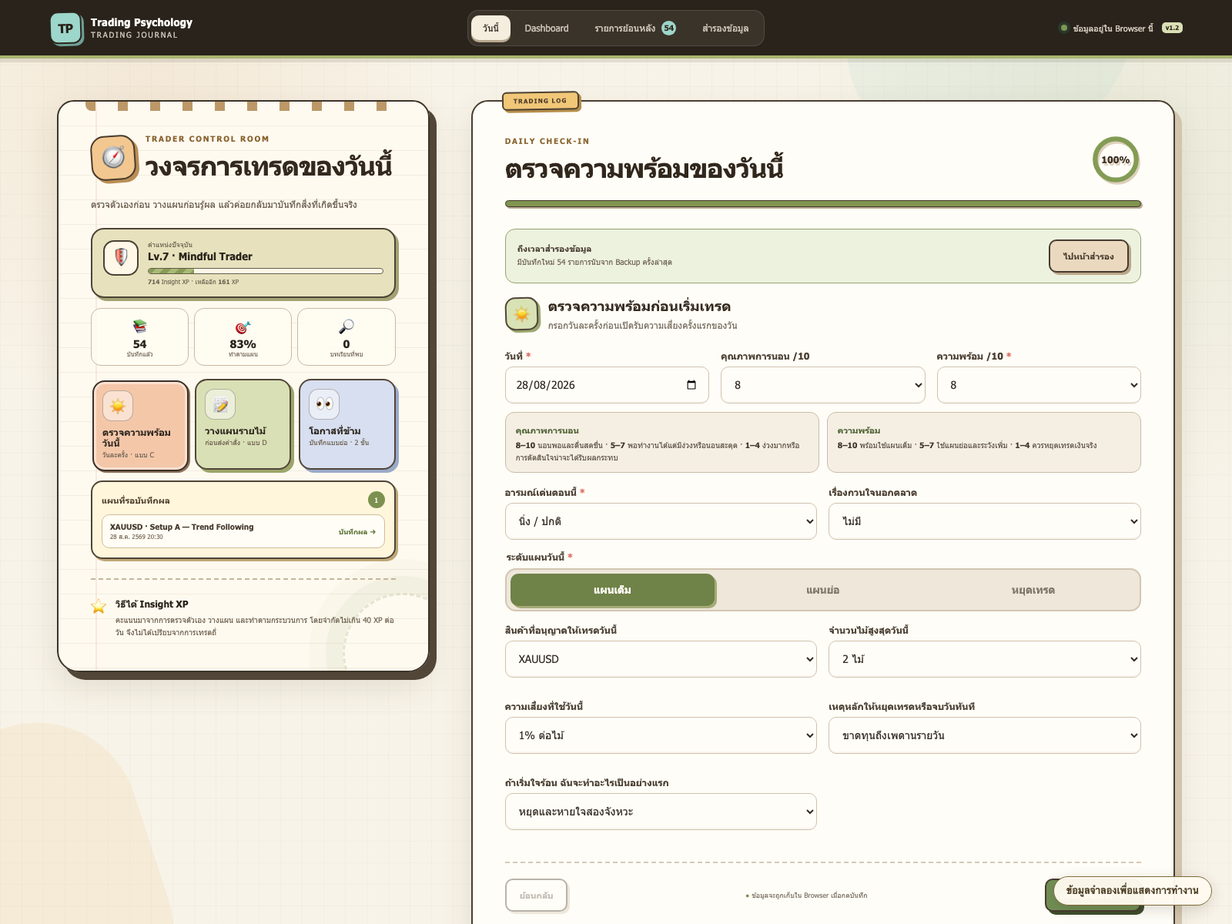
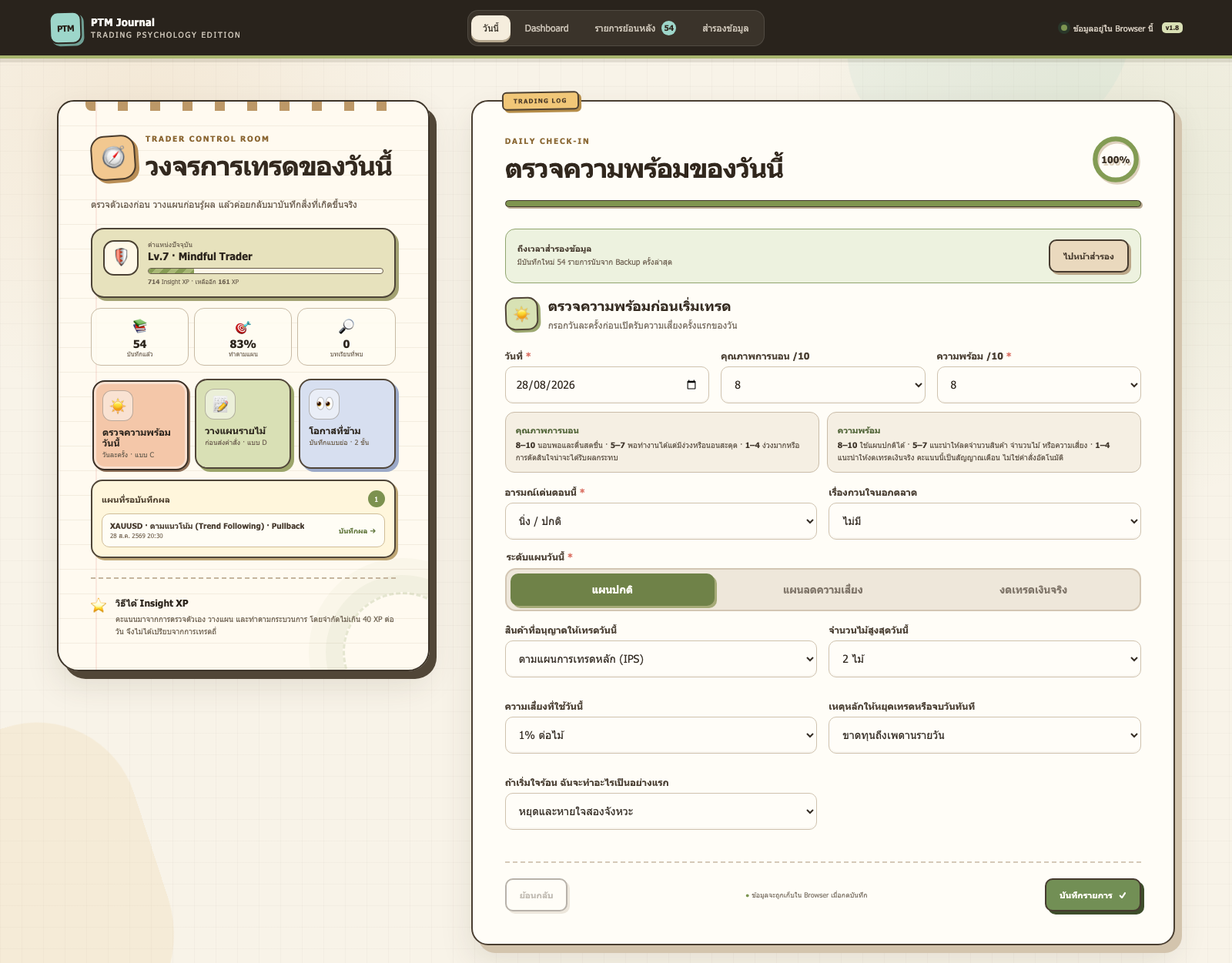
Add files via upload

Changed region(s): [[0.375, 0.0925, 0.9688, 1.0], [0.0312, 0.0925, 0.375, 0.74], [0.0, 0.0, 1.0, 0.0617]]

diff --git a/index.html b/index.html
@@ -12,7 +12,7 @@
   <meta property="og:image:height" content="630">
   <meta name="twitter:card" content="summary_large_image">
   <title>จิตวิทยาการเทรด ฉบับลงมือทำ</title>
-  <link rel="stylesheet" href="styles.css">
+  <link rel="stylesheet" href="styles.css?v=20260902-3">
 </head>
 <body>
   <header class="site-header">
@@ -91,7 +91,7 @@
           <tbody>
             <tr><th scope="row">eBook จิตวิทยาการเทรด ฉบับลงมือทำ</th><td><span class="table-check">✓</span></td><td class="guided-column"><span class="table-check">✓</span></td><td>ภายใน 3 ก.ย. 2569</td></tr>
             <tr><th scope="row">Trading Psychology Workbook</th><td><span class="table-check">✓</span></td><td class="guided-column"><span class="table-check">✓</span></td><td>ภายใน 3 ก.ย. 2569</td></tr>
-            <tr><th scope="row">Trade Journal Web App + Dashboard</th><td><span class="table-check">✓</span></td><td class="guided-column"><span class="table-check">✓</span></td><td>ภายใน 3 ก.ย. 2569</td></tr>
+            <tr><th scope="row">PTM Journal — Trading Psychology Edition</th><td><span class="table-check">✓</span></td><td class="guided-column"><span class="table-check">✓</span></td><td>ภายใน 3 ก.ย. 2569</td></tr>
             <tr><th scope="row">MyGPT “โค้ชใจนิ่ง”</th><td><span class="table-dash">—</span></td><td class="guided-column"><span class="table-check">✓</span></td><td>ภายใน 30 ก.ย. 2569</td></tr>
             <tr><th scope="row">Audio Book เนื้อหาหลักครบทุกบท</th><td><span class="table-dash">—</span></td><td class="guided-column"><span class="table-check">✓</span></td><td>ภายใน 30 ก.ย. 2569</td></tr>
             <tr><th scope="row">โปรแกรม 30 วันจิตวิทยาการเทรด</th><td><span class="table-dash">—</span></td><td class="guided-column"><span class="table-check">✓</span></td><td>ลงคลิป 1–30 ต.ค. 2569</td></tr>
@@ -142,12 +142,13 @@
           <span class="card-number">03</span>
           <div class="card-icon">◎</div>
           <p class="card-kicker">PRACTICE</p>
-          <h3>Web App + Dashboard</h3>
-          <p>บันทึกแต่ละไม้ ตรวจความพร้อม และมองหารูปแบบที่เกิดซ้ำจากข้อมูลจริง เปิดบน Chrome หรือ Edge โดยไม่ต้องติดตั้งโปรแกรม</p>
+          <h3>PTM Journal</h3>
+          <p>ช่วยตรวจความพร้อม วางแผนก่อนเข้า บันทึกผลหลังจบไม้ และมองเห็นสิ่งที่เกิดซ้ำจากข้อมูลการเทรดของตัวเอง เปิดบน Chrome หรือ Edge โดยไม่ต้องติดตั้งโปรแกรม</p>
           <ul>
-            <li>Daily Check-in ก่อนเทรด</li>
-            <li>Process Score แยกจากกำไร–ขาดทุน</li>
-            <li>Dashboard สรุปวินัย อารมณ์ และ Setup</li>
+            <li>Daily Check-in, แผนก่อนเข้า และทบทวนหลังจบไม้</li>
+            <li>Dashboard แยก Performance, Process × Outcome และ Behavior</li>
+            <li>สลับดูผลแบบ R หรือกำไร–ขาดทุน พร้อม Session และ Setup</li>
+            <li>ส่งออกข้อมูลไปวิเคราะห์ต่อใน Excel หรือ Google Sheets และสำรองข้อมูลเก็บไว้ได้</li>
           </ul>
         </article>
       </div>
@@ -155,75 +156,90 @@
 
     <section id="preview" class="preview-section section-shell">
       <div class="section-heading">
-        <div><p class="section-tag">PREVIEW</p><h2>ไม่ได้มีเพียงหนังสือให้อ่าน</h2></div>
-        <p>ทุกชิ้นถูกออกแบบให้ใช้ต่อกัน ตั้งแต่การรวบรวมกฎก่อนเทรด ไปจนถึงการดูพฤติกรรมที่เกิดซ้ำใน Dashboard</p>
+        <div><p class="section-tag">PREVIEW</p><h2>ดูตัวอย่างเครื่องมือในชุด</h2></div>
+        <p>ภาพย่อแสดงหน้าจริงแบบเต็มหน้า กดที่ภาพเพื่อขยายและอ่านรายละเอียดได้</p>
       </div>
 
-      <div class="preview-block">
-        <div class="preview-copy">
-          <span class="preview-index">A</span>
-          <p class="card-kicker">WORKBOOK</p>
-          <h3>เห็นกระบวนการทั้งหมดในหน้าเดียว</h3>
-          <p>ไม่ต้องกรอกทุกหน้าทุกวัน Workbook แยกให้ชัดว่าอะไรทำครั้งแรก อะไรทำทุกวัน และอะไรใช้เมื่อถึงรอบทบทวน</p>
-          <button class="text-button" type="button" data-lightbox="assets/workbook-overview.png" data-caption="Workbook — ภาพรวมกระบวนการ">เปิดดูภาพเต็ม ↗</button>
+      <section class="product-preview workbook-preview">
+        <div class="product-preview-heading">
+          <div><p class="card-kicker">TRADING PSYCHOLOGY WORKBOOK</p><h3>จากสิ่งที่อ่าน สู่กฎและกระบวนการของตัวเอง</h3></div>
+          <p>Workbook ขนาด A4 แบ่งชัดว่าอะไรใช้ครั้งแรก อะไรใช้ทุกวัน และอะไรใช้เมื่อถึงรอบทบทวน สามารถพิมพ์หรือเขียนบน Tablet ได้</p>
         </div>
-        <button class="image-frame workbook-frame" type="button" data-lightbox="assets/workbook-overview.png" data-caption="Workbook — ภาพรวมกระบวนการ">
-          <img src="assets/workbook-overview.png" alt="ภาพรวมการใช้ Trading Psychology Workbook" loading="lazy">
-        </button>
-      </div>
+        <div class="document-preview-grid">
+          <figure class="preview-tile">
+            <button class="preview-media document-page-frame" type="button" data-lightbox="assets/workbook-cover-full.png" data-caption="Trading Psychology Workbook — หน้าปก">
+              <img src="assets/workbook-cover-full.png" alt="หน้าปก Trading Psychology Workbook" loading="lazy">
+            </button>
+            <figcaption>หน้าปก Workbook</figcaption>
+          </figure>
+          <figure class="preview-tile">
+            <button class="preview-media document-page-frame" type="button" data-lightbox="assets/workbook-how-to-full.png" data-caption="Workbook — วิธีเลือกใช้แต่ละส่วน">
+              <img src="assets/workbook-how-to-full.png" alt="หน้าแนะนำวิธีใช้ Trading Psychology Workbook" loading="lazy">
+            </button>
+            <figcaption>หน้าแนะนำวิธีเลือกใช้ Workbook</figcaption>
+          </figure>
+        </div>
+      </section>
 
-      <div class="preview-block reverse">
-        <div class="preview-copy">
-          <span class="preview-index">B</span>
-          <p class="card-kicker">CONTINUOUS EXAMPLE</p>
-          <h3>ตัวอย่างที่เดินต่อจากก่อนเทรดถึงวันทบทวน</h3>
-          <p>กรณีของเมย์แสดงให้เห็นว่าข้อมูลชุดเดียวถูกนำไปใช้ต่ออย่างไร ตั้งแต่ระบุพฤติกรรม รวบรวมกฎ แยกผลออกจากกระบวนการ จนเลือกปรับเพียงหนึ่งเรื่อง</p>
-          <button class="text-button" type="button" data-lightbox="assets/workbook-case-study.png" data-caption="Workbook — ตัวอย่างต่อเนื่องของเมย์">เปิดดูภาพเต็ม ↗</button>
+      <section class="product-preview journal-preview-section">
+        <div class="product-preview-heading">
+          <div><p class="card-kicker">PTM JOURNAL</p><h3>ตั้งแต่ตรวจตัวเองก่อนเทรด จนถึงทบทวนภาพรวม</h3></div>
+          <p>บันทึกเป็นขั้นตอนด้วยภาษาที่เข้าใจง่าย เก็บคะแนนจากการทำตามกระบวนการ และดูข้อมูลย้อนหลังเพื่อค้นหาสิ่งที่ควรพัฒนาต่อ</p>
         </div>
-        <button class="image-frame case-frame" type="button" data-lightbox="assets/workbook-case-study.png" data-caption="Workbook — ตัวอย่างต่อเนื่องของเมย์">
-          <img src="assets/workbook-case-study.png" alt="ตัวอย่างต่อเนื่องของเมย์ใน Workbook" loading="lazy">
-        </button>
-      </div>
 
-      <div class="app-showcase">
-        <div class="app-showcase-copy">
-          <span class="preview-index">C</span>
-          <p class="card-kicker">TRADE JOURNAL WEB APP</p>
-          <h3>บันทึกให้เป็นเรื่องที่อยากกลับมาทำต่อ</h3>
-          <p>ตรวจความพร้อม วางแผนรายไม้ บันทึกผลและอารมณ์ เก็บคะแนนจากการทำตามกระบวนการ และสำรองข้อมูลออกจาก Browser ได้</p>
-          <div class="mini-features">
-            <span>Daily Check-in</span><span>Insight XP</span><span>Skipped Setup</span><span>Backup</span>
-          </div>
+        <div class="app-preview-grid">
+          <figure class="preview-tile">
+            <button class="preview-media app-screen-frame" type="button" data-lightbox="assets/daily-check-in-demo.png" data-caption="PTM Journal — ตรวจความพร้อมก่อนเทรด (ข้อมูลจำลอง)">
+              <img src="assets/daily-check-in-demo.png" alt="หน้าตรวจความพร้อมก่อนเทรด" loading="lazy">
+            </button>
+            <figcaption>ตรวจความพร้อมก่อนเทรด</figcaption>
+          </figure>
+          <figure class="preview-tile">
+            <button class="preview-media app-screen-frame" type="button" data-lightbox="assets/trade-plan-log-demo.png" data-caption="PTM Journal — วางแผนก่อนเข้าแต่ละไม้ (ข้อมูลจำลอง)">
+              <img src="assets/trade-plan-log-demo.png" alt="กรอบ Trading Log สำหรับวางแผนก่อนเข้าแต่ละไม้" loading="lazy">
+            </button>
+            <figcaption>วางแผนก่อนเข้าแต่ละไม้</figcaption>
+          </figure>
+          <figure class="preview-tile">
+            <button class="preview-media app-screen-frame" type="button" data-lightbox="assets/trade-result-log-demo.png" data-caption="PTM Journal — บันทึกผลหลังจบไม้ (ข้อมูลจำลอง)">
+              <img src="assets/trade-result-log-demo.png" alt="กรอบ Trading Log สำหรับบันทึกผลหลังจบไม้" loading="lazy">
+            </button>
+            <figcaption>บันทึกผลหลังจบไม้</figcaption>
+          </figure>
+          <figure class="preview-tile">
+            <button class="preview-media app-screen-frame" type="button" data-lightbox="assets/history-list-demo.png" data-caption="PTM Journal — ดูรายการย้อนหลังอย่างเป็นระบบ (ข้อมูลจำลอง)">
+              <img src="assets/history-list-demo.png" alt="หน้ารายการย้อนหลังของ PTM Journal" loading="lazy">
+            </button>
+            <figcaption>ดูรายการย้อนหลังอย่างเป็นระบบ</figcaption>
+          </figure>
         </div>
-        <button class="screen-frame" type="button" data-lightbox="assets/daily-check-in-demo.png" data-caption="Web App — ตรวจความพร้อมก่อนเทรด (ข้อมูลจำลอง)">
-          <img src="assets/daily-check-in-demo.png" alt="หน้าตรวจความพร้อมก่อนเทรดใน Web App" loading="lazy">
-        </button>
-      </div>
 
-      <div class="preview-block reverse journal-preview">
-        <div class="preview-copy">
-          <span class="preview-index">D</span>
-          <p class="card-kicker">TRADE JOURNAL</p>
-          <h3>บันทึกสิ่งที่ทำจริง ไม่ใช่ดูแค่กำไรหรือขาดทุน</h3>
-          <p>หลังจบแต่ละไม้ Web App ช่วยบันทึกการทำตามแผน อารมณ์ ข้อผิดพลาด และบทเรียน ทำให้เห็นว่าไม้ที่กำไรอาจผิดแผน และไม้ที่ขาดทุนอาจเป็นไม้ที่ทำได้ดี</p>
-          <button class="text-button" type="button" data-lightbox="assets/journal-process-demo.png" data-caption="Web App — บันทึกกระบวนการและอารมณ์หลังจบแต่ละไม้ (ข้อมูลจำลอง)">เปิดดูภาพเต็ม ↗</button>
+        <div class="dashboard-preview-heading">
+          <div><p class="card-kicker">DASHBOARD</p><h3>ดูผลลัพธ์ควบคู่กับการทำตามแผน</h3></div>
+          <p>ดูภาพรวม ผลตามช่วงเวลาและรูปแบบที่ใช้ เปรียบเทียบผลลัพธ์กับการทำตามแผน และมองหาอารมณ์หรือข้อผิดพลาดที่เกิดซ้ำ</p>
         </div>
-        <button class="screen-frame" type="button" data-lightbox="assets/journal-process-demo.png" data-caption="Web App — บันทึกกระบวนการและอารมณ์หลังจบแต่ละไม้ (ข้อมูลจำลอง)">
-          <img src="assets/journal-process-demo.png" alt="หน้าบันทึกกระบวนการและอารมณ์หลังจบแต่ละไม้" loading="lazy">
-        </button>
-      </div>
-
-      <div class="dashboard-showcase">
-        <div class="dashboard-copy">
-          <p class="card-kicker">PSYCHOLOGY ANALYTICS</p>
-          <h3>ดูผลลัพธ์ควบคู่กับการทำตามแผน</h3>
-          <p>Dashboard ไม่ได้ดูเพียงกำไร–ขาดทุน แต่ช่วยแยกไม้ที่ทำตามแผนออกจากไม้ที่ผิดแผน พร้อมดูแนวโน้มรายสัปดาห์ อารมณ์ ข้อผิดพลาด และเหตุผลที่ข้าม Setup</p>
-          <p class="demo-note">ภาพนี้ใช้ข้อมูลจำลองเพื่อแสดงการทำงาน ไม่ใช่ผลการเทรดจริงหรือการรับประกันผลลัพธ์</p>
+        <div class="dashboard-preview-grid">
+          <figure class="preview-tile">
+            <button class="preview-media dashboard-screen-frame" type="button" data-lightbox="assets/dashboard-summary-demo.png" data-caption="Dashboard — ภาพรวมผลการเทรด (ข้อมูลจำลอง)">
+              <img src="assets/dashboard-summary-demo.png" alt="Dashboard ภาพรวมผลการเทรด" loading="lazy">
+            </button>
+            <figcaption>ภาพรวมผลการเทรด</figcaption>
+          </figure>
+          <figure class="preview-tile">
+            <button class="preview-media dashboard-screen-frame" type="button" data-lightbox="assets/dashboard-performance-demo.png" data-caption="Dashboard — ผลลัพธ์และบริบทการเทรด (ข้อมูลจำลอง)">
+              <img src="assets/dashboard-performance-demo.png" alt="Dashboard ผลลัพธ์และบริบทการเทรด" loading="lazy">
+            </button>
+            <figcaption>ผลลัพธ์ ช่วงเวลา และรูปแบบการเทรด</figcaption>
+          </figure>
+          <figure class="preview-tile wide-preview-tile">
+            <button class="preview-media dashboard-detail-frame" type="button" data-lightbox="assets/dashboard-process-behavior-demo.png" data-caption="Dashboard — การทำตามแผนและสิ่งที่เกิดซ้ำ (ข้อมูลจำลอง)">
+              <img src="assets/dashboard-process-behavior-demo.png" alt="Dashboard การทำตามแผนและสิ่งที่เกิดซ้ำ" loading="lazy">
+            </button>
+            <figcaption>การทำตามแผน อารมณ์ และสิ่งที่เกิดซ้ำ</figcaption>
+          </figure>
         </div>
-        <button class="screen-frame wide" type="button" data-lightbox="assets/dashboard-demo.png" data-caption="Dashboard — ข้อมูลจำลองเพื่อแสดงการทำงาน">
-          <img src="assets/dashboard-demo.png" alt="Dashboard สรุปการเทรดจากข้อมูลจำลอง" loading="lazy">
-        </button>
-      </div>
+        <p class="demo-note standalone-demo-note">ภาพ PTM Journal ใช้ข้อมูลจำลองเพื่อแสดงการทำงาน ไม่ใช่ผลการเทรดจริงหรือการรับประกันผลลัพธ์</p>
+      </section>
     </section>
 
     <section class="fit-section section-shell">
@@ -261,7 +277,7 @@
           <ul class="check-list">
             <li>eBook ฉบับเต็ม 163 หน้า ขนาด A5</li>
             <li>Workbook ขนาด A4 สำหรับพิมพ์หรือเขียนบน Tablet</li>
-            <li>Web App Trade Journal พร้อม Dashboard</li>
+            <li>PTM Journal — Trading Psychology Edition พร้อม Dashboard</li>
             <li>คู่มือใช้งาน Web App ฉบับย่อ</li>
           </ul>
           <p class="package-delivery">ส่งครบทั้ง 3 ผลิตภัณฑ์ภายใน 3 ก.ย. 2569</p>
@@ -289,6 +305,7 @@
       <div class="order-shared-note">
         <p>ทุกปุ่มสมัครจะพาไปยังหน้าสรุปยอดโอนและขั้นตอนการสมัคร</p>
         <p>ใช้แบบฟอร์มเดียวสำหรับทั้งสองแพ็กเกจ หลังกรอกแบบฟอร์มแล้วให้ส่งสลิปพร้อมแจ้ง Email ทาง LINE Official Account โดยไม่ต้องกรอกข้อมูลชุดเดิมซ้ำอีกครั้ง</p>
+        <p><strong>สิทธิ์ใช้งานเป็นรายบุคคล:</strong> ผู้ซื้อใช้ไฟล์บนอุปกรณ์ส่วนตัวได้ แต่ไม่รวมสิทธิ์คัดลอก แจกจ่าย หรือส่งต่อให้บุคคลอื่น สิทธิ์รับอัปเดตและการช่วยเหลือจะผูกกับ Email ที่ลงทะเบียน</p>
       </div>
     </section>
 
@@ -326,6 +343,7 @@
       <p class="section-tag">คำถามที่อาจสงสัย</p>
       <h2>FAQ</h2>
       <details><summary>ต้องติดตั้ง Web App หรือไม่?</summary><p>ไม่ต้องติดตั้งโปรแกรม เปิดไฟล์ด้วย Chrome หรือ Edge ได้โดยตรง ข้อมูลเก็บอยู่ใน Browser ที่ใช้เปิด จึงควรดาวน์โหลด Backup เป็นประจำ</p></details>
+      <details><summary>PTM Journal ใช้ได้กี่เครื่อง และส่งไฟล์ให้ผู้อื่นได้หรือไม่?</summary><p>ผู้ซื้อสามารถเก็บและใช้งานบนอุปกรณ์ส่วนตัวของตัวเองได้ แต่ข้อมูลในแต่ละ Browser จะไม่เชื่อมกันโดยอัตโนมัติ สิทธิ์ใช้งานเป็นสิทธิ์รายบุคคล ไม่รวมการคัดลอก แจกจ่าย หรือส่งต่อไฟล์ให้ผู้อื่น โดยสิทธิ์รับอัปเดตและการช่วยเหลือจะอ้างอิงจาก Email ที่ลงทะเบียน</p></details>
       <details><summary>ใช้ร่วมกับไฟล์จาก AI Workflow / PTM Lite ได้หรือไม่?</summary><p>แนวคิดและคำศัพท์ถูกปรับให้สอดคล้องกัน แต่ Web App ชุดนี้ทำหน้าที่เป็น Trade Journal ด้านกระบวนการและจิตวิทยาโดยเฉพาะ จึงไม่จำเป็นต้องคัดลอกข้อมูลซ้ำลง Workbook</p></details>
       <details><summary>Core Set กับ Guided Set ต่างกันอย่างไร?</summary><p>Core Set มี eBook, Workbook และ Web App ครบสำหรับฝึกด้วยตัวเอง ส่วน Guided Set ได้รับ Core Set ทั้งหมด พร้อม MyGPT, Audio Book และโปรแกรมฝึก 30 วันในกลุ่ม Facebook แบบปิด</p></details>
       <details><summary>Guided Set ได้รับทุกอย่างพร้อมกันหรือไม่?</summary><p>Core Set จะส่งภายในวันที่ 3 กันยายน 2569 ส่วน MyGPT, Audio Book และสิทธิ์เข้ากลุ่มจะส่งภายในวันที่ 30 กันยายน จากนั้นเริ่มลงคลิปวันละหนึ่งคลิประหว่างวันที่ 1–30 ตุลาคม</p></details>

diff --git a/styles.css b/styles.css
@@ -324,6 +324,30 @@ h3 { margin-bottom: 12px; color: var(--navy); font-size: clamp(24px, 2.4vw, 34px
 .bundle-card li::before { content: "◆"; position: absolute; left: 0; top: 2px; color: var(--olive); font-size: 11px; }
 
 .preview-section { padding-bottom: 70px; }
+.product-preview { margin-top: 48px; padding: clamp(26px, 4vw, 46px); border: 2px solid var(--ink); border-radius: 28px; box-shadow: 9px 11px 0 var(--shadow); }
+.workbook-preview { background: #fff8ec; }
+.journal-preview-section { margin-top: 72px; background: #e6edf7; box-shadow: 9px 11px 0 #99a7b8; }
+.product-preview-heading,
+.dashboard-preview-heading { display: grid; grid-template-columns: minmax(0, 1fr) minmax(280px, .8fr); gap: 32px; align-items: end; margin-bottom: 30px; }
+.product-preview-heading h3,
+.dashboard-preview-heading h3 { margin-bottom: 0; }
+.product-preview-heading > p,
+.dashboard-preview-heading > p { margin: 0; color: var(--ink-soft); }
+.document-preview-grid { display: grid; grid-template-columns: repeat(2, minmax(0, 390px)); justify-content: center; gap: clamp(22px, 4vw, 54px); }
+.app-preview-grid { display: grid; grid-template-columns: repeat(2, minmax(0, 1fr)); gap: 22px 18px; }
+.dashboard-preview-heading { margin-top: 58px; padding-top: 34px; border-top: 1px solid rgba(48,40,31,.18); }
+.dashboard-preview-grid { display: grid; grid-template-columns: repeat(2, minmax(0, 1fr)); gap: 18px; }
+.wide-preview-tile { grid-column: 1 / -1; }
+.preview-tile { min-width: 0; margin: 0; text-align: center; }
+.preview-tile figcaption { margin-top: 13px; color: var(--navy); font-size: 14px; font-weight: 700; }
+.preview-media { position: relative; display: block; width: 100%; padding: 0; overflow: hidden; background: #ece5d8; border: 2px solid var(--ink); border-radius: 18px; box-shadow: 6px 7px 0 rgba(48,40,31,.17); cursor: zoom-in; }
+.preview-media::after { content: "เปิดภาพเต็ม ↗"; position: absolute; right: 10px; bottom: 10px; padding: 6px 10px; color: #fff; background: rgba(43,36,28,.88); border-radius: 999px; font-size: 10px; font-weight: 700; }
+.preview-media img { width: 100%; height: 100%; object-fit: contain; }
+.document-page-frame { aspect-ratio: 210 / 297; background: #e8e2d7; }
+.app-screen-frame { aspect-ratio: 4 / 3; background: #f4eddf; }
+.dashboard-screen-frame { aspect-ratio: 4 / 3; background: #f4eddf; }
+.dashboard-detail-frame { aspect-ratio: 16 / 9; background: #f4eddf; }
+.standalone-demo-note { margin: 24px 0 0; color: var(--ink-soft); text-align: center; font-size: 13px; }
 .preview-block {
   display: grid;
   grid-template-columns: .72fr 1.28fr;
@@ -516,6 +540,7 @@ h3 { margin-bottom: 12px; color: var(--navy); font-size: clamp(24px, 2.4vw, 34px
 .guided-pricing .package-delivery { color: #f7e8b6; background: rgba(255,255,255,.1); }
 .order-shared-note { margin: 30px auto 0; max-width: 880px; color: var(--ink-soft); font-size: 14px; text-align: center; }
 .order-shared-note p { margin-bottom: 6px; }
+.order-shared-note strong { color: var(--navy); }
 .order-card { display: grid; grid-template-columns: .92fr 1.08fr; overflow: hidden; background: var(--paper); border: 3px solid var(--ink); border-radius: 28px; box-shadow: 12px 14px 0 #a9997d; }
 .order-main { padding: clamp(34px, 5vw, 70px); color: #fff; background: var(--navy); }
 .order-main h2 { color: #fff; }
@@ -606,6 +631,7 @@ footer p { margin: 0; font-size: 12px; }
   .bundle-card { min-height: auto; }
   .preview-block,
   .preview-block.reverse { grid-template-columns: 1fr; }
+  .app-preview-grid { grid-template-columns: 1fr 1fr; }
   .preview-block.reverse .preview-copy { order: initial; }
   .fit-section { grid-template-columns: 1fr; }
   .package-grid { grid-template-columns: minmax(0, 1fr); }
@@ -644,6 +670,19 @@ footer p { margin: 0; font-size: 12px; }
   .section-heading > p { margin-top: 16px; }
   .bundle-card { padding: 28px; box-shadow: 6px 7px 0 var(--shadow); }
   .preview-block { gap: 25px; margin: 35px 0 65px; }
+  .product-preview { margin-top: 34px; padding: 24px 16px; border-radius: 21px; box-shadow: 6px 7px 0 var(--shadow); }
+  .journal-preview-section { margin-top: 52px; box-shadow: 6px 7px 0 #99a7b8; }
+  .product-preview-heading,
+  .dashboard-preview-heading { grid-template-columns: 1fr; gap: 12px; margin-bottom: 24px; }
+  .document-preview-grid { grid-template-columns: repeat(2, minmax(0, 1fr)); gap: 12px; }
+  .app-preview-grid,
+  .dashboard-preview-grid { grid-template-columns: 1fr; gap: 18px; }
+  .wide-preview-tile { grid-column: auto; width: 100%; }
+  .preview-media { border-radius: 13px; box-shadow: 4px 5px 0 rgba(48,40,31,.17); }
+  .preview-media::after { right: 7px; bottom: 7px; padding: 5px 8px; font-size: 8px; }
+  .preview-tile figcaption { margin-top: 9px; font-size: 12px; }
+  .dashboard-preview-heading { margin-top: 40px; padding-top: 26px; }
+  .dashboard-detail-frame { aspect-ratio: 4 / 3; }
   .preview-copy p:not(.card-kicker) { font-size: 17px; }
   .image-frame,
   .screen-frame { border-radius: 16px; box-shadow: 6px 7px 0 var(--shadow); }

diff --git a/signup.html b/signup.html
@@ -109,7 +109,7 @@
     <section class="delivery-panel section-shell narrow">
       <div><p class="section-tag">DELIVERY</p><h2>กำหนดส่งมอบ</h2></div>
       <div class="signup-delivery-grid">
-        <article><strong>ภายใน 3 ก.ย. 2569</strong><p>ส่ง eBook, Workbook และ Trade Journal Web App พร้อม Dashboard ให้ผู้ซื้อทั้งสองแพ็กเกจทาง Email</p></article>
+        <article><strong>ภายใน 3 ก.ย. 2569</strong><p>ส่ง eBook, Workbook และ PTM Journal — Trading Psychology Edition พร้อม Dashboard ให้ผู้ซื้อทั้งสองแพ็กเกจทาง Email</p></article>
         <article><strong>ภายใน 30 ก.ย. 2569</strong><p>ส่ง MyGPT, Audio Book และสิทธิ์เข้ากลุ่มปิดสำหรับผู้ซื้อ Guided Set</p></article>
         <article><strong>1–30 ต.ค. 2569</strong><p>ลงคลิปโปรแกรม 30 วัน วันละหนึ่งคลิปในกลุ่ม Facebook แบบปิด</p></article>
       </div>
